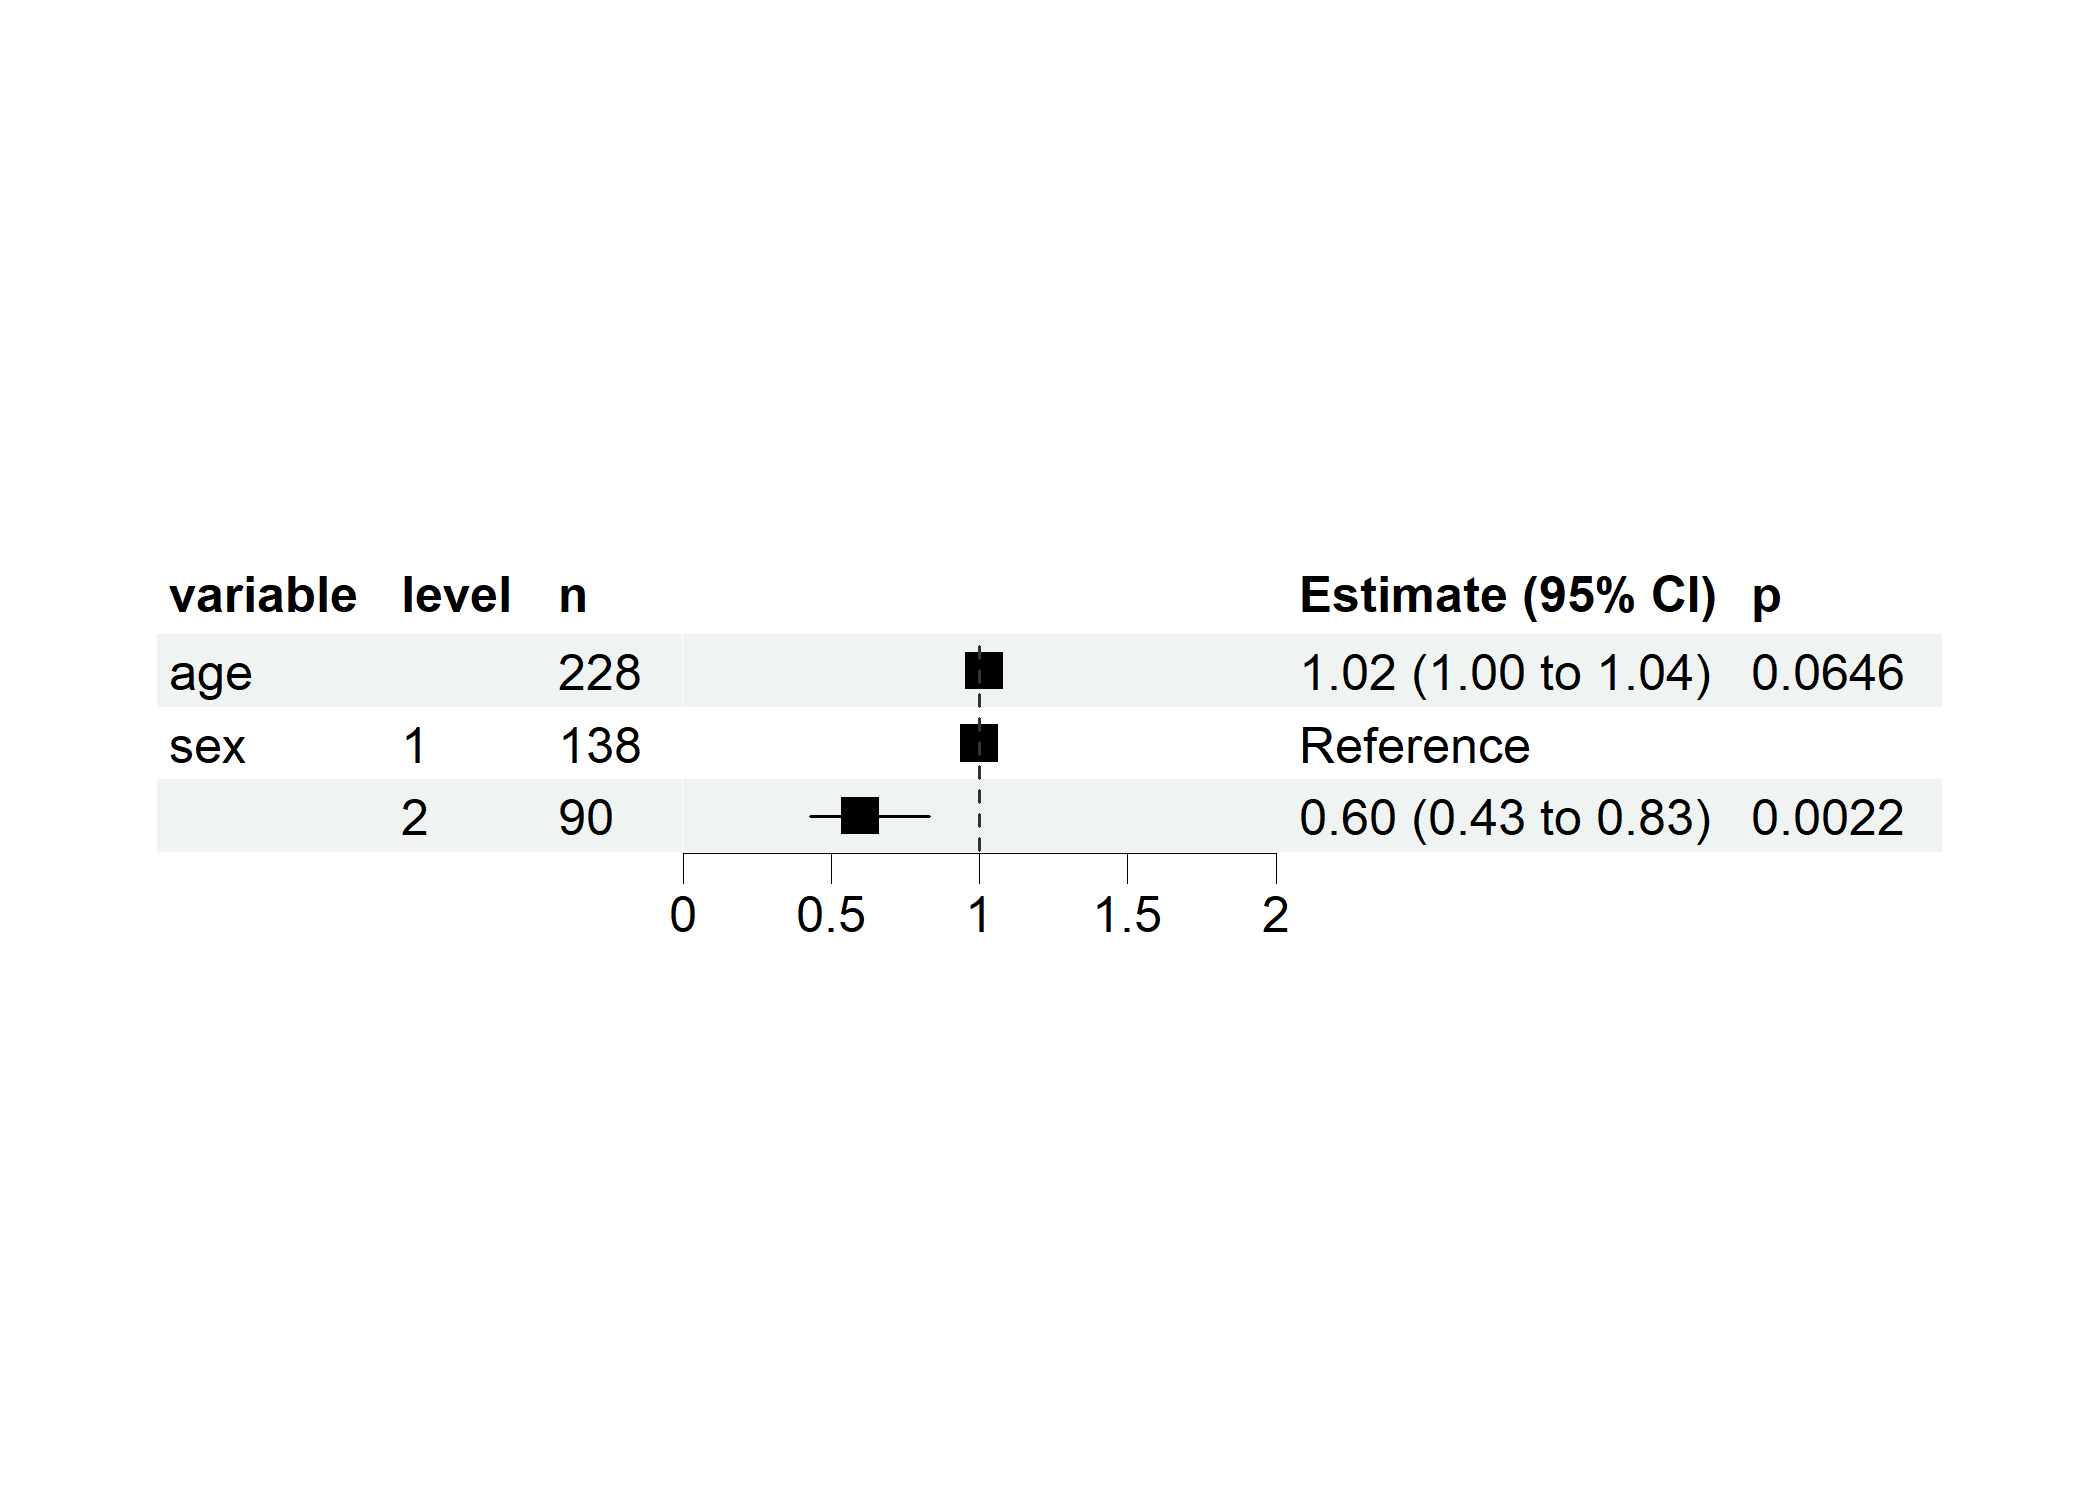
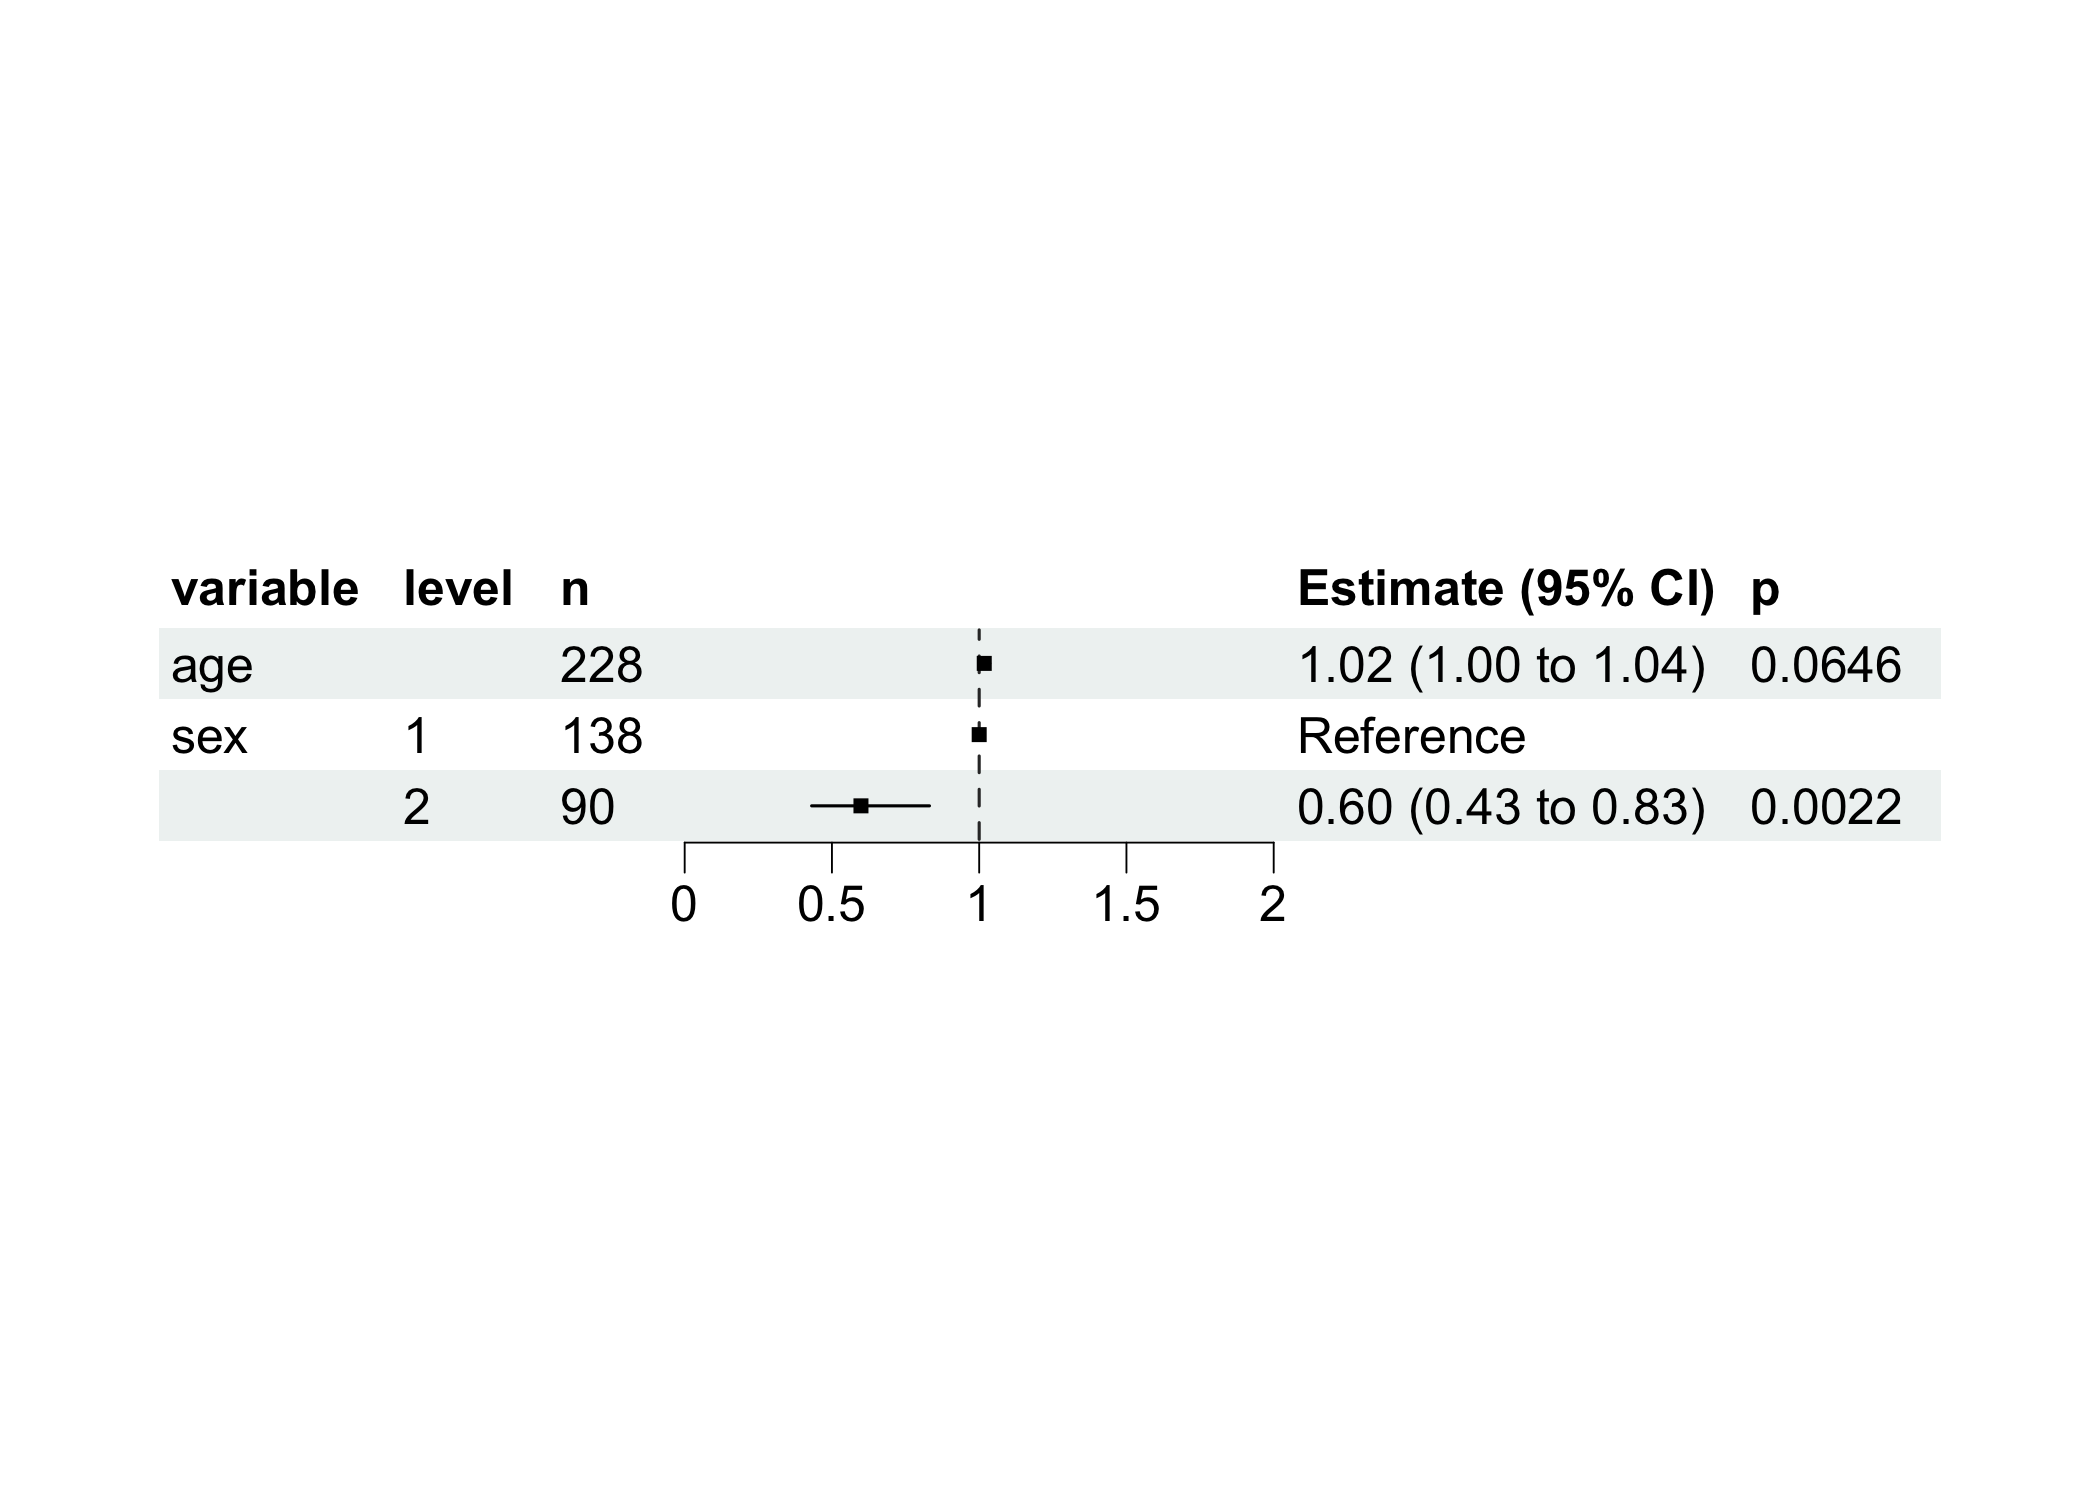
Update documentation and README, re-document package
Updated documentation for REGModel and REGModelList to use explicit method anchors. README files were revised to indicate the package is superseded by bregr, and outdated badges were removed. NEWS.md and DESCRIPTION updated for version 0.3.1 and RoxygenNote 7.3.2. Test files regenerated by roxytest, and minor project file cleanup performed. Figures in man/figures updated.

diff --git a/README.md b/README.md
@@ -1,5 +1,3 @@
-# News: Please switch to [regverse](https://github.com/ShixiangWang/regport)
-
 
 <!-- README.md is generated from README.Rmd. Please edit that file -->
 
@@ -12,14 +10,15 @@ status](https://www.r-pkg.org/badges/version/regport)](https://cran.r-project.or
 [![lifecycle](https://img.shields.io/badge/lifecycle-maturing-blue.svg)](https://lifecycle.r-lib.org/articles/stages.html)
 [![R-CMD-check](https://github.com/ShixiangWang/regport/workflows/R-CMD-check/badge.svg)](https://github.com/ShixiangWang/regport/actions)
 [![](https://cranlogs.r-pkg.org/badges/grand-total/regport?color=orange)](https://cran.r-project.org/package=regport)
-[![Hits](https://hits.seeyoufarm.com/api/count/incr/badge.svg?url=https%3A%2F%2Fgithub.com%2FShixiangWang%2Fregport&count_bg=%2379C83D&title_bg=%23555555&icon=&icon_color=%23E7E7E7&title=hits&edge_flat=false)](https://hits.seeyoufarm.com)
-[![Gitter](https://badges.gitter.im/ShixiangWang/community.svg)](https://gitter.im/ShixiangWang/community?utm_source=badge&utm_medium=badge&utm_campaign=pr-badge)
 
 <!-- badges: end -->
 
 The goal of regport is to provides R6 classes, methods and utilities to
 construct, analyze, summarize, and visualize regression models (CoxPH
 and GLMs).
+
+> This package is been superseded by
+> [bregr](https://cran.r-project.org/package=bregr).
 
 ## Installation
 
@@ -63,8 +62,8 @@ model
 #> age       |        1.02 | 9.38e-03 | [1.00, 1.04] |  1.85 | 0.065
 #> sex [2]   |        0.60 |     0.10 | [0.43, 0.83] | -3.06 | 0.002
 #> 
-#> Uncertainty intervals (equal-tailed) and p values (two-tailed) computed using a
-#>   Wald z-distribution approximation.
+#> Uncertainty intervals (equal-tailed) and p-values (two-tailed) computed
+#>   using a Wald z-distribution approximation.
 #> [coxph] model ==========
 ```
 
@@ -84,8 +83,8 @@ model
 #> age       |        1.02 | 9.38e-03 | [1.00, 1.04] |  1.85 | 0.065
 #> sex [2]   |        0.60 |     0.10 | [0.43, 0.83] | -3.06 | 0.002
 #> 
-#> Uncertainty intervals (equal-tailed) and p values (two-tailed) computed using a
-#>   Wald z-distribution approximation.
+#> Uncertainty intervals (equal-tailed) and p-values (two-tailed) computed
+#>   using a Wald z-distribution approximation.
 #> [coxph] model ==========
 ```
 
@@ -173,10 +172,10 @@ ml$plot_forest(ref_line = 0, xlim = c(-15, 8))
 
 ``` r
 covr::package_coverage()
-#> regport Coverage: 90.59%
+#> regport Coverage: 85.28%
 #> R/utils.R: 75.00%
-#> R/REGModel.R: 89.19%
-#> R/REGModelList.R: 98.28%
+#> R/REGModelList.R: 81.91%
+#> R/REGModel.R: 87.56%
 ```
 
 ## LICENSE

diff --git a/NEWS.md b/NEWS.md
@@ -1,3 +1,7 @@
+# regport 0.3.1
+
+* Re-documented.
+
 # regport 0.3.0
 
 * Fixed a bug when parsing column names from interaction term.
